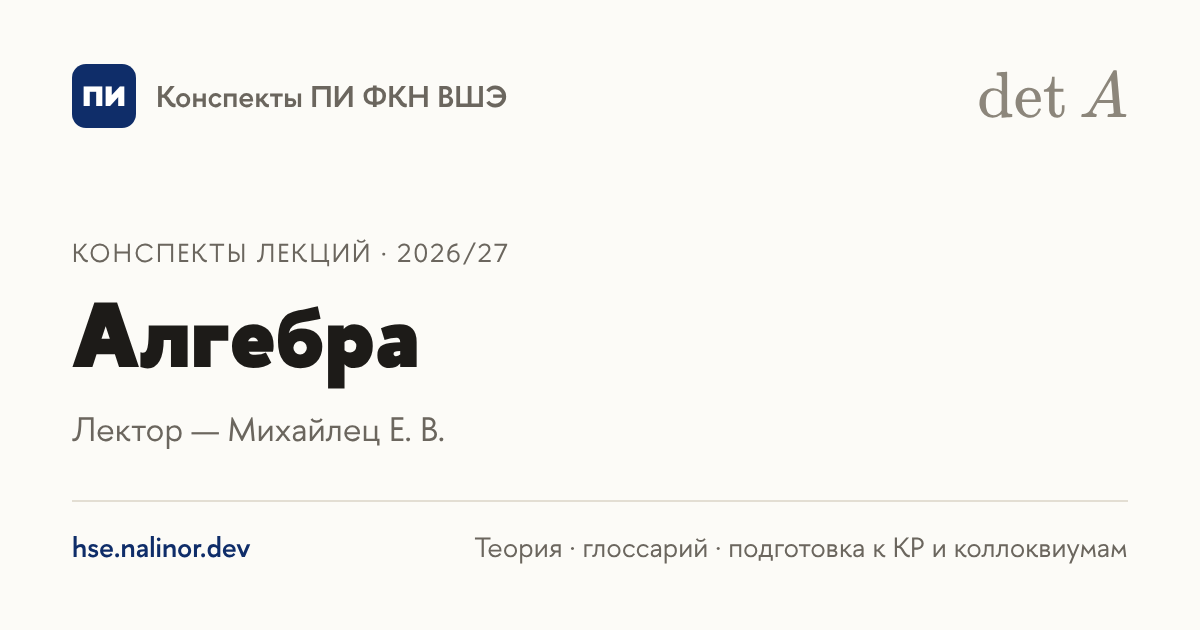
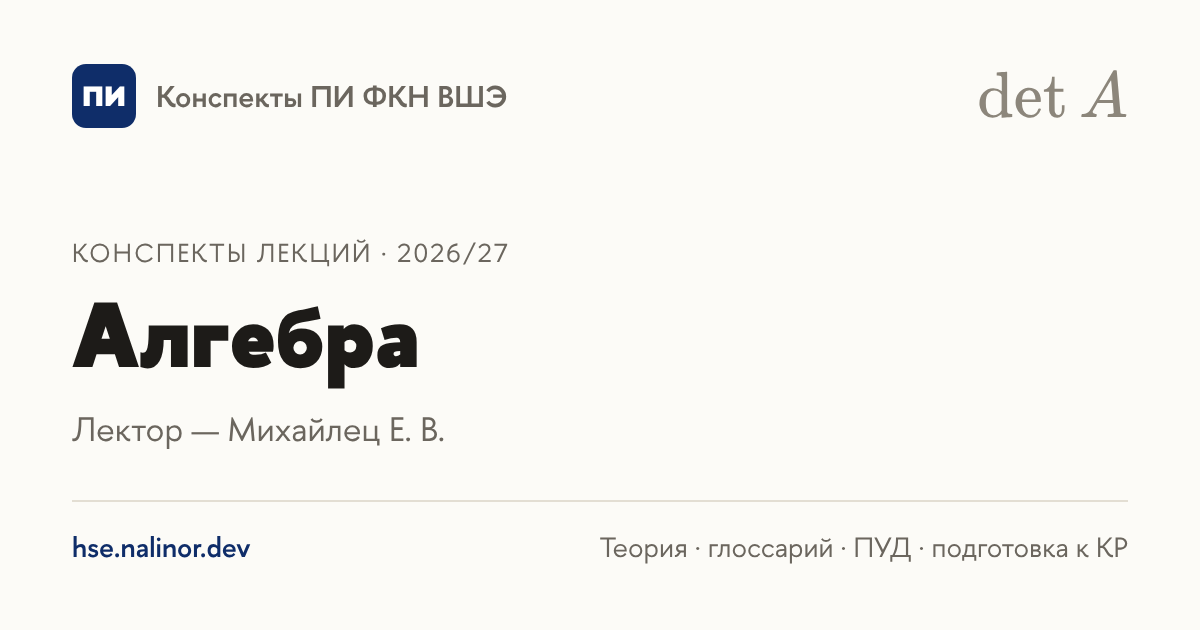
Show what each course actually has in the link-preview footer
The footer used to promise test and colloquium preparation for every course.
It is now set per course by hand in og-images.ts; the prep prompt and
context/site.md remind to update it. Also finish the second review round of
aiya lecture 1 (dash commands in machine tables, wording of the coding claim).

Claude-Session: https://claude.ai/code/session_012GQdQPiU8jX3QxKoTS38zK

Changed region(s): [[0.4008, 0.8444, 0.9558, 0.9048]]

diff --git a/web/scripts/og-images.ts b/web/scripts/og-images.ts
@@ -14,7 +14,7 @@ import path from "node:path";
 import { fileURLToPath, pathToFileURL } from "node:url";
 import { chromium } from "playwright-core";
 
-import { type CourseInfo, COURSES } from "../src/domain/courses.ts";
+import { type CourseId, type CourseInfo, COURSES } from "../src/domain/courses.ts";
 import { OG_IMAGE_SIZE, type OgImageId, ogImagePath, SITE_NAME } from "../src/domain/seo.ts";
 
 const fileUrl = (relative: string): string =>
@@ -55,6 +55,8 @@ const tex = (source: string): string => renderToString(source, { throwOnError: t
 type Card = {
   readonly kicker: string;
   readonly note: string;
+  /** What the site has for the card's course (or for all of them): the footer line. */
+  readonly offer: string;
   readonly symbol: string;
   /** Font size of the symbol in px: the site card fits every course's symbol beside the brand. */
   readonly symbolSize?: number;
@@ -66,6 +68,7 @@ type Card = {
 const html = ({
   kicker,
   note,
+  offer,
   symbol,
   symbolSize = 54,
   title,
@@ -80,12 +83,25 @@ const html = ({
   <div class="kicker">${kicker}</div>
   <h1 style="font-size: ${String(titleSize)}px">${title}</h1>
   <p class="note">${note}</p>
-  <footer><b>hse.nalinor.dev</b><span>Теория · глоссарий · подготовка к КР и коллоквиумам</span></footer>
+  <footer><b>hse.nalinor.dev</b><span>${offer}</span></footer>
 </body></html>`;
+
+/**
+What each course has on the site besides lectures, for the footer of its card. Written by hand, not
+collected from the data: update it and rerun this script when a course gets its first preparation
+page for a test or colloquium (`context/site.md` reminds of this too).
+*/
+const OFFER: Readonly<Record<CourseId, string>> = {
+  aiya: "Теория · глоссарий · ПУД",
+  algebra: "Теория · глоссарий · ПУД · подготовка к КР",
+  calculus: "Теория · глоссарий · ПУД · подготовка к КР и коллоквиуму",
+  discrete: "Теория · глоссарий · ПУД · подготовка к КР",
+};
 
 const courseCard = (course: CourseInfo): Card => ({
   kicker: "Конспекты лекций · 2026/27",
   note: `Лектор — ${course.lecturer}`,
+  offer: OFFER[course.id],
   symbol: tex(course.symbol),
   title: course.name,
   // At 92px a title longer than ~25 characters takes three lines and pushes the footer off the card.
@@ -95,6 +111,7 @@ const courseCard = (course: CourseInfo): Card => ({
 const siteCard: Card = {
   kicker: "1 курс · 2026/27",
   note: COURSES.map((course) => course.name).join(" · "),
+  offer: "Теория · глоссарий · ПУД · подготовка к КР и коллоквиумам",
   symbol: tex(COURSES.map((course) => course.symbol).join(String.raw`\quad `)),
   symbolSize: 38,
   title: "Конспекты лекций",

diff --git a/notes/aiya/01_nov03_turing_machine.md b/notes/aiya/01_nov03_turing_machine.md
@@ -96,7 +96,7 @@ $$A_p^* = \{\varepsilon\} \cup A_p \cup A_p^2 \cup \dots = \bigcup_{m = 0}^{\inf
 Индекс $p$ у алфавита — число символов. Например, над $A_2 = \{0, 1\}$ слов длины $2$ четыре: $00$, $01$, $10$, $11$. В общем случае $|A_p^m| = p^m$: на каждую из $m$ позиций независимо выбирается один из $p$ символов. Объединение берётся по всем длинам, потому что длина входа заранее не известна.
 
 ::: {.remark #rem:lec01:words-corner tag="корнер-кейс"}
-Пустое слово — полноправное слово: $A_p^0 = \{\varepsilon\}$ содержит один элемент, и $\varepsilon \in A_p^*$ для любого алфавита. Алгоритм обязан что-то делать и на пустом входе (машина из примера [-@ex:lec01:invert] ниже на нём останавливается за один такт). Ещё одна граница: алфавит конечен и каждое слово конечно, но множество $A_p^*$ бесконечно, слова в нём сколь угодно длинные. В этом информатика отличается от анализа: вход, выход и запись на ленте в каждый момент конечны, хотя и сколь угодно велики; бесконечно только множество всех слов (и, как увидим, ход вычисления, которое не заканчивается).
+Пустое слово — полноправное слово: $A_p^0 = \{\varepsilon\}$ содержит один элемент, и $\varepsilon \in A_p^*$ для любого алфавита. Алгоритм обязан что-то делать и на пустом входе (машина из примера [-@ex:lec01:invert] ниже на нём останавливается за один такт). Ещё одна граница: алфавит конечен и каждое слово конечно, но множество $A_p^*$ бесконечно, слова в нём сколь угодно длинные. В этом информатика отличается от анализа: вход, выход и все промежуточные данные в каждый момент конечны, хотя и сколь угодно велики; бесконечно только множество всех слов (и, как увидим, ход вычисления, которое не заканчивается).
 :::
 
 ## Кодирование
@@ -104,7 +104,7 @@ $$A_p^* = \{\varepsilon\} \cup A_p \cup A_p^2 \cup \dots = \bigcup_{m = 0}^{\inf
 Какой алфавит выбрать: русский, латинский, двоичный? С теоретической точки зрения разницы нет, потому что любой алфавит выражается через любой другой.
 
 ::: {.proposition #prop:lec01:encoding title="о кодировании"}
-Для любой пары алфавитов $A$ и $B$ можно посимвольно закодировать $A$ словами в алфавите $B$ (код слова — подряд записанные коды его символов) так, что слово над $A$ однозначно восстанавливается по своему коду. Если в $B$ только один символ, а в $A$ не меньше двух, для этого нужен дополнительный служебный символ «конец кода символа».
+Для любой пары алфавитов $A$ и $B$ можно посимвольно закодировать $A$ словами в алфавите $B$ (код слова — подряд записанные коды его символов) так, что слово над $A$ однозначно восстанавливается по своему коду; если в $B$ только один символ, а в $A$ не меньше двух, — с добавлением служебного символа «конец кода символа», а без него нельзя.
 :::
 
 ::: proof
@@ -114,11 +114,11 @@ $$A_p^* = \{\varepsilon\} \cup A_p \cup A_p^2 \cup \dots = \bigcup_{m = 0}^{\inf
 
 *Случай $q \ge 2$.* Выберем наименьшее $k \ge 1$, при котором $q^k \ge p$. Слов длины $k$ над $B$ хватает на все символы $A$: сопоставим $a_i$ запись числа $i - 1$ в системе счисления по основанию $q$, дополненную ведущими «нулями» $b_0$ до длины ровно $k$. Код слова над $A$ — подряд записанные коды его символов. Раскодирование: режем код на куски по $k$ символов, каждый кусок однозначно даёт символ $A$. Разделитель не нужен, потому что длина кода символа известна заранее.
 
-*Случай $q = 1$*, $B = \{|\}$. Символу $a_i$ сопоставим слово из $i$ палочек, а после кода каждого символа поставим служебный символ $\#$; раскодируем, разрезая код по символам $\#$. Без разделителя при $p \ge 2$ не обойтись: любой посимвольный код над $\{|\}$ сопоставляет символам $a$ и $b$ слова $|^i$ и $|^j$, и тогда коды слов $ab$ и $ba$ одинаковы: $|^i|^j = |^{i + j} = |^j|^i$. Значит, $ab$ и $ba$ не различить (пример — в замечании [-@rem:lec01:unary-separator]). При $p = 1$ разделитель не нужен: код $|^m$ означает слово $a_1^m$.
+*Случай $q = 1$*, $B = \{|\}$. Символу $a_i$ сопоставим слово из $i$ палочек, а после кода каждого символа поставим служебный символ $\#$; раскодируем, разрезая код по символам $\#$. Без разделителя при $p \ge 2$ не обойтись: любой посимвольный код над $\{|\}$ сопоставляет символам $a_1$ и $a_2$ слова $|^i$ и $|^j$, и тогда коды слов $a_1a_2$ и $a_2a_1$ одинаковы: $|^i|^j = |^{i + j} = |^j|^i$. Значит, эти слова не различить (пример — в замечании [-@rem:lec01:unary-separator]). При $p = 1$ разделитель не нужен: код $|^m$ означает слово $a_1^m$.
 :::
 
 ::: {.example #ex:lec01:encoding}
-Закодируем $A_3 = \{a, b, c\}$ алфавитом $A_2 = \{0, 1\}$. *Ответ:* $a \mapsto 00$, $b \mapsto 01$, $c \mapsto 10$, слово $cab \mapsto 100001$. Здесь $p = 3$, $q = 2$; $2^1 < 3 \le 2^2$, поэтому $k = 2$. Обратно: $100001$ режется на $10\,|\,00\,|\,01$, то есть $cab$. Код $11$ остаётся неиспользованным: символов три, а не степень двойки.
+Закодируем $A_3 = \{a, b, c\}$ алфавитом $A_2 = \{0, 1\}$. *Ответ:* $a \mapsto 00$, $b \mapsto 01$, $c \mapsto 10$, слово $cab \mapsto 100001$. Здесь $p = 3$, $q = 2$; $2^1 < 3 \le 2^2$, поэтому $k = 2$. Обратно: $100001$ режется на $10\,|\,00\,|\,01$, то есть $cab$. Код $11$ остаётся неиспользованным: число символов $3$ — не степень двойки.
 
 В унарном алфавите: $a \mapsto |\#$, $b \mapsto ||\#$, $c \mapsto |||\#$, слово $cab \mapsto |||\#|\#||\#$.
 :::
@@ -191,7 +191,7 @@ $$A_p^* = \{\varepsilon\} \cup A_p \cup A_p^2 \cup \dots = \bigcup_{m = 0}^{\inf
 - *программой*: для каждой пары «состояние $q \ne q_s$, символ $s \in S$» — командой $\langle q, s\rangle \to \langle q', s', d\rangle$: перейти в состояние $q'$, записать в рабочую ячейку $s'$ вместо $s$ и сдвинуть головку в направлении $d$: $L$ — на ячейку влево, $R$ — на ячейку вправо, $H$ — остаться на месте.
 :::
 
-Один шаг работы, *такт*, устроен так: головка в состоянии $q$ читает символ $s$ в рабочей ячейке, находит команду $\langle q, s\rangle \to \langle q', s', d\rangle$, пишет $s'$, сдвигается по $d$ и переходит в $q'$. Команда может и не менять символ ($s' = s$), и не сдвигать головку ($d = H$). Попав в $q_s$, машина останавливается. Программу удобно записывать таблицей: строки — состояния, столбцы — символы, в клетке — тройка $q', s', d$. Прочерк в клетке ставят там, где пара «состояние, символ» на допустимых входных словах не встречается; формально туда можно вписать любую команду, например $\langle q, s\rangle \to \langle q, s, H\rangle$ (вечная работа на месте), и вычисляемая функция от этого не изменится.
+Один шаг работы, *такт*, устроен так: головка в состоянии $q$ читает символ $s$ в рабочей ячейке, находит команду $\langle q, s\rangle \to \langle q', s', d\rangle$, пишет $s'$, сдвигается по $d$ и переходит в $q'$. Команда может и не менять символ ($s' = s$), и не сдвигать головку ($d = H$). Попав в $q_s$, машина останавливается. Программу удобно записывать таблицей: строки — состояния, столбцы — символы, в клетке — тройка $q', s', d$. Прочерк в клетке ставят там, где пара «состояние, символ» на допустимых входных словах не встречается; формально туда можно вписать любую команду, и результат на допустимых словах от этого не изменится. Удобно вписывать $\langle q, s\rangle \to \langle q, s, H\rangle$ (вечная работа на месте): тогда на недопустимых словах функция просто не определена.
 
 ::: {.definition #def:lec01:configuration title="конфигурация"}
 *Конфигурация* МТ — тройка $\langle n, F, q\rangle$: $n \in \Z$ — номер рабочей ячейки, $F\colon \Z \to S$ — текущая запись на ленте ($F(i)$ — символ в ячейке $i$), $q$ — текущее состояние. Пара $\langle n, q\rangle$ называется *позицией* МТ.

diff --git a/context/site.md b/context/site.md
@@ -16,7 +16,7 @@
 - **Поиск** (⌘K / Ctrl+K, «/»): номер блока («4.3») находит метку из `index.json`, слова — разделы и блоки из `search.json` (грузится при первом открытии поиска).
 - **Офлайн:** service worker (`web/sw/`). Оболочка сайта и общие данные скачиваются сразу; конспекты, теория, программа курса, подготовки и глоссарии — только когда их открыли (или по кнопке «Скачать все» в футере), а на заведомо безлимитном соединении (браузер сообщает Wi-Fi или Ethernet и не включена экономия трафика; на деле — Chrome на Android и ChromeOS) — сами в фоне после загрузки страницы, не мешая чтению и с остановкой при переходе на мобильную сеть; хранятся, пока их содержимое не изменится. PDF не кэшируются. Новая версия сайта — плашка «Мы кое-что поменяли… Обновить» сверху.
 - Сайт должен быть красивым. Окружения выглядят так же, как в PDF; формулы — KaTeX.
-- **Поисковики и LLM:** у каждой страницы своя копия оболочки с заголовком, описанием, `canonical`, картинкой превью ссылок (у главной — общая, у страниц курса — картинка курса), хлебными крошками в JSON-LD, ссылкой на Markdown-исходник и всем текстом страницы для клиентов без JS (формулы — LaTeX-текстом; браузер с JS этот блок не показывает); `sitemap.xml`, `robots.txt` и `llms.txt` (карта сайта для LLM со ссылками на исходники в репозитории) собираются вместе с сайтом. Подробно — `web/README.md`. Аналитика — Google Analytics (GA4), только в прод-сборке.
+- **Поисковики и LLM:** у каждой страницы своя копия оболочки с заголовком, описанием, `canonical`, картинкой превью ссылок (у главной — общая, у страниц курса — картинка курса), хлебными крошками в JSON-LD, ссылкой на Markdown-исходник и всем текстом страницы для клиентов без JS (формулы — LaTeX-текстом; браузер с JS этот блок не показывает); `sitemap.xml`, `robots.txt` и `llms.txt` (карта сайта для LLM со ссылками на исходники в репозитории) собираются вместе с сайтом. Подробно — `web/README.md`. Подпись внизу картинки превью курса (что есть у курса: теория, глоссарий, ПУД, подготовка к КР, к коллоквиуму) задана вручную в `OFFER` (`web/scripts/og-images.ts`): появилась у курса первая подготовка нового вида — обнови её и перерисуй картинки (`bun og:images`). Аналитика — Google Analytics (GA4), только в прод-сборке.
 - **Публикация:** GitHub Pages, `.github/workflows/pages.yml` после успешной сборки `main`; у каждого PR из этого репозитория — превью на Cloudflare Workers (задание `preview` в `build.yml`), ссылку держит актуальной комментарий с меткой `<!-- site-preview -->`.
 
 ## Что отдаёт сборка (`uv run scripts/build.py` → `build/site-data/`)

diff --git a/context/prompts/prep.md b/context/prompts/prep.md
@@ -23,6 +23,7 @@
 6. **Генератор вариантов** (`# Генератор вариантов {#sec:krN:generator}` — последний раздел, банк `prep/<course>/krN-bank.yaml`, формат — `context/markup.md` §11): пробного варианта на странице нет (решение владельца, октябрь 2026), тренироваться — генератором. `ticket` — номера КР в порядке билета (то же число вопросов, баллы — только объявленные), каждый номер — свой `kind` с блоком тем. Вопросы вида — прототипы страницы этих тем (`refs`) и новые задачи со своим `answer` (ответ и ключевой шаг в одну-две фразы, пересчитаны как прототипы); на вид — хотя бы втрое больше вопросов, чем мест в варианте. Теоретические номера — вопросы по спискам определений и доказательств (`refs` на формулировку и `rem:krN:proof-…`). `about` — одна фраза: варианты неофициальные и тренировочные.
 7. **Теоретическая часть** — только если она есть на КР (алгебра): определения и формулировки — `ref=`-блоки в порядке списка, каждое — с номером пункта списка в тексте рядом («1. Умножение матриц …»); вопросы с доказательством — формулировка (`ref=`), затем «*Идея:*» и ключевые шаги, которые надо воспроизвести на КР (5–15 строк), и ссылка на полное доказательство в конспекте. Чего нет в конспектах — доказательство целиком в `remark` или `example`, с пометкой в отчёте.
 8. **Проверка.** `uv run scripts/lint.py prep/<course>/krN.md` без ошибок; `uv run scripts/build.py --only prep/<course>/krN.md` без ошибок и overfull box; посмотри PNG страниц (`uv run scripts/render_pages.py build/pdf/<course>/krN.pdf --dpi 80`).
+9. **Картинка превью.** Если это первая подготовка такого вида у курса (первая КР или первый коллоквиум), допиши её в подпись курса `OFFER` в `web/scripts/og-images.ts` и перерисуй картинки: `cd web && bun og:images`.
 
 ## Математика
 
